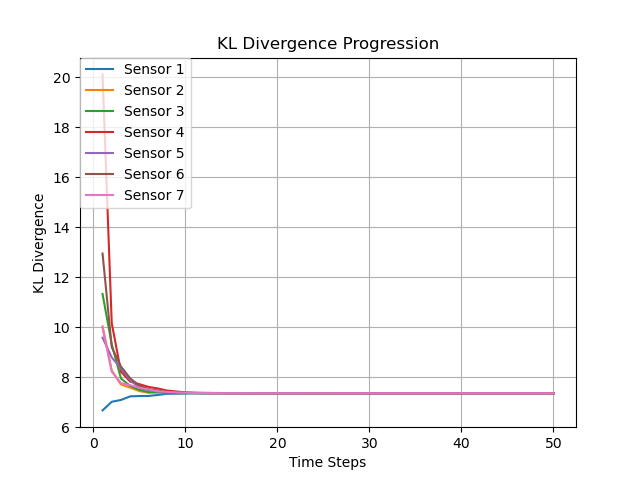
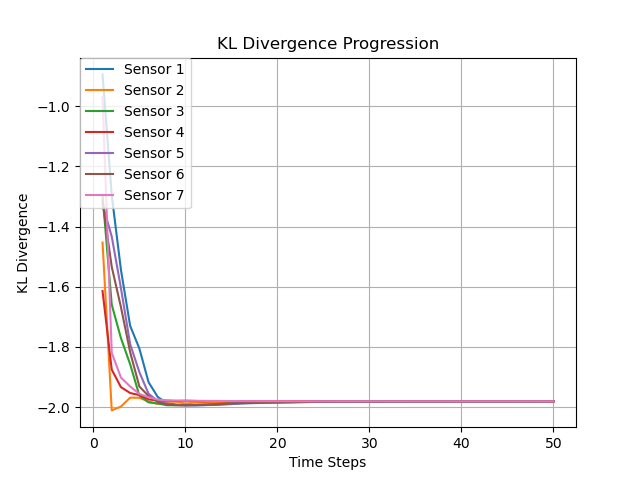
Generates also negative covariances

diff --git a/gaussianDistribution.py b/gaussianDistribution.py
@@ -8,7 +8,7 @@ def sampleMeasuredSensorFromTrue(dims, num_sensors, target_loc):
     mu = toTuple(target_loc)
     scalar = 25
     for i in range(num_sensors):
-        S = np.tril(np.random.rand(dims, dims))
+        S = np.tril(np.random.randn(dims, dims))
         cov = np.dot(S, S.T) * scalar
         covs.append(cov)
         mu_i = np.random.multivariate_normal(mu, cov, 1)[0]
